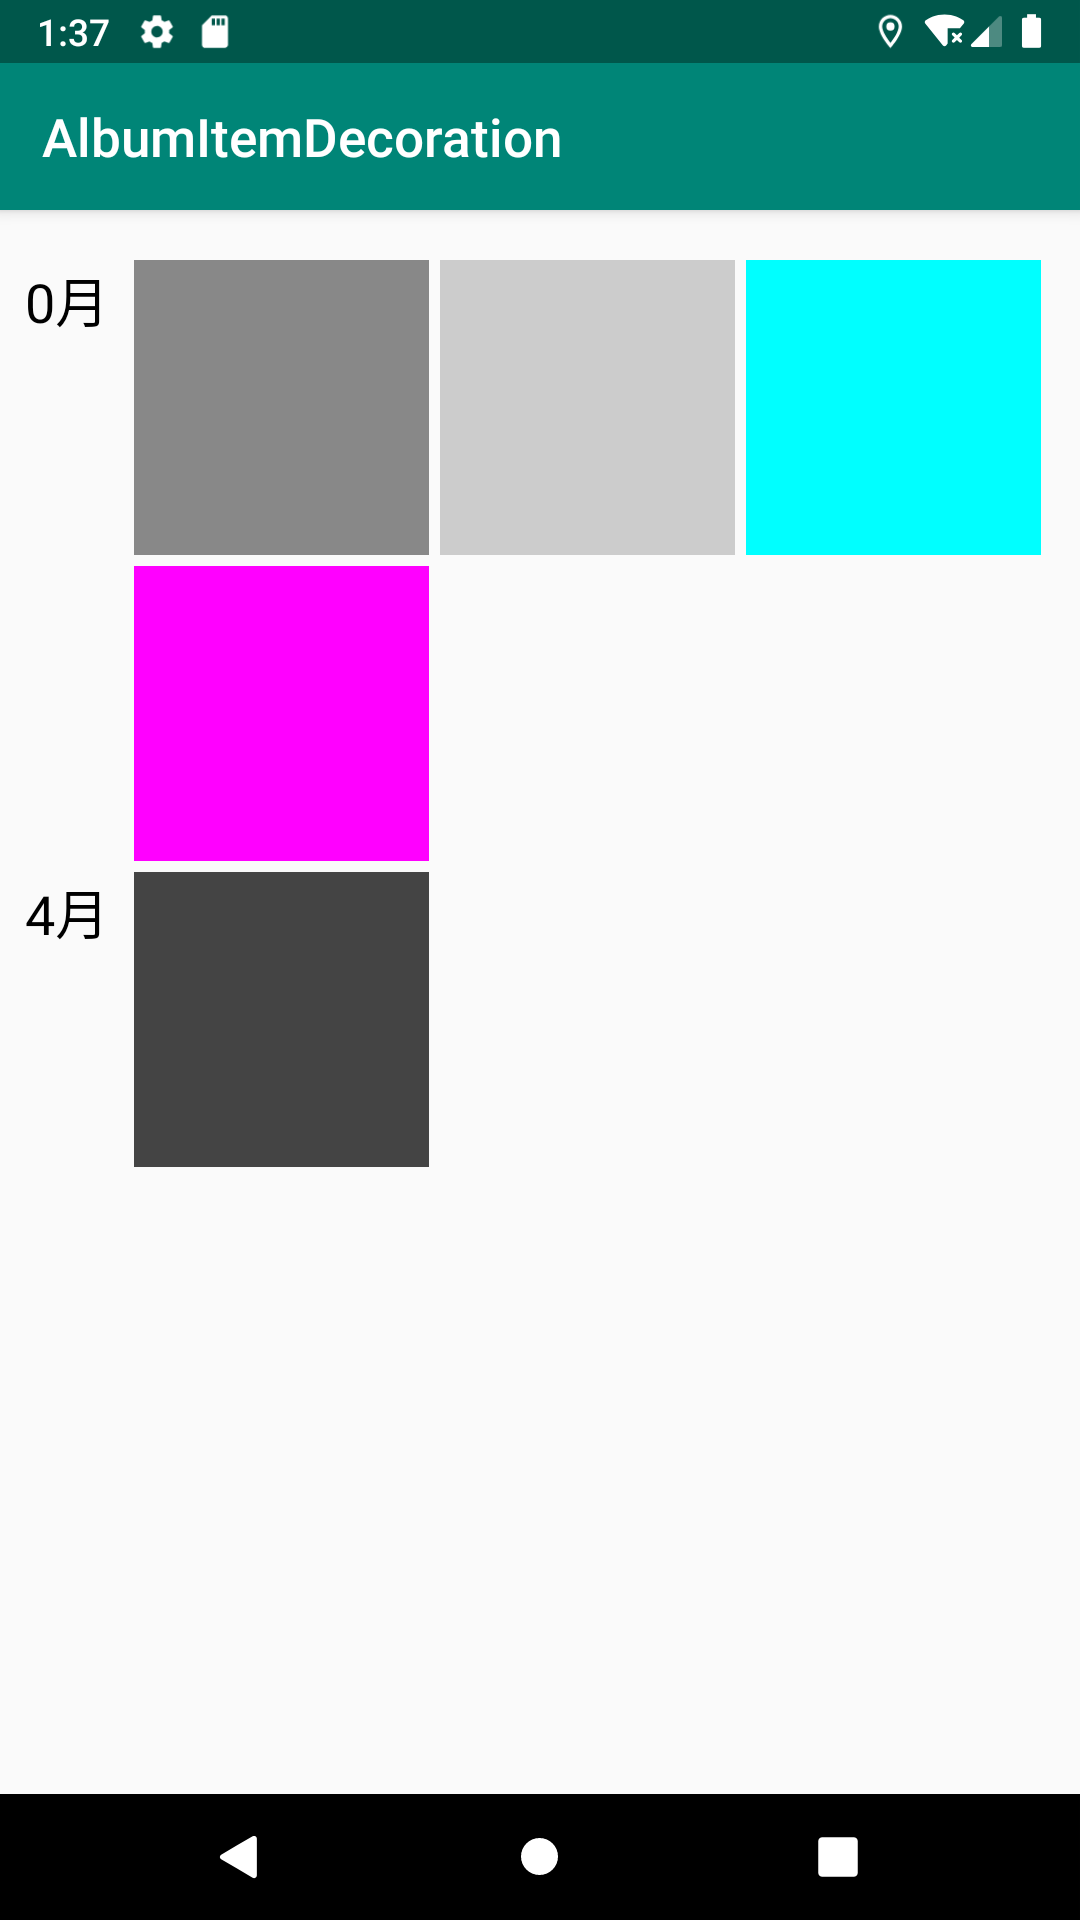
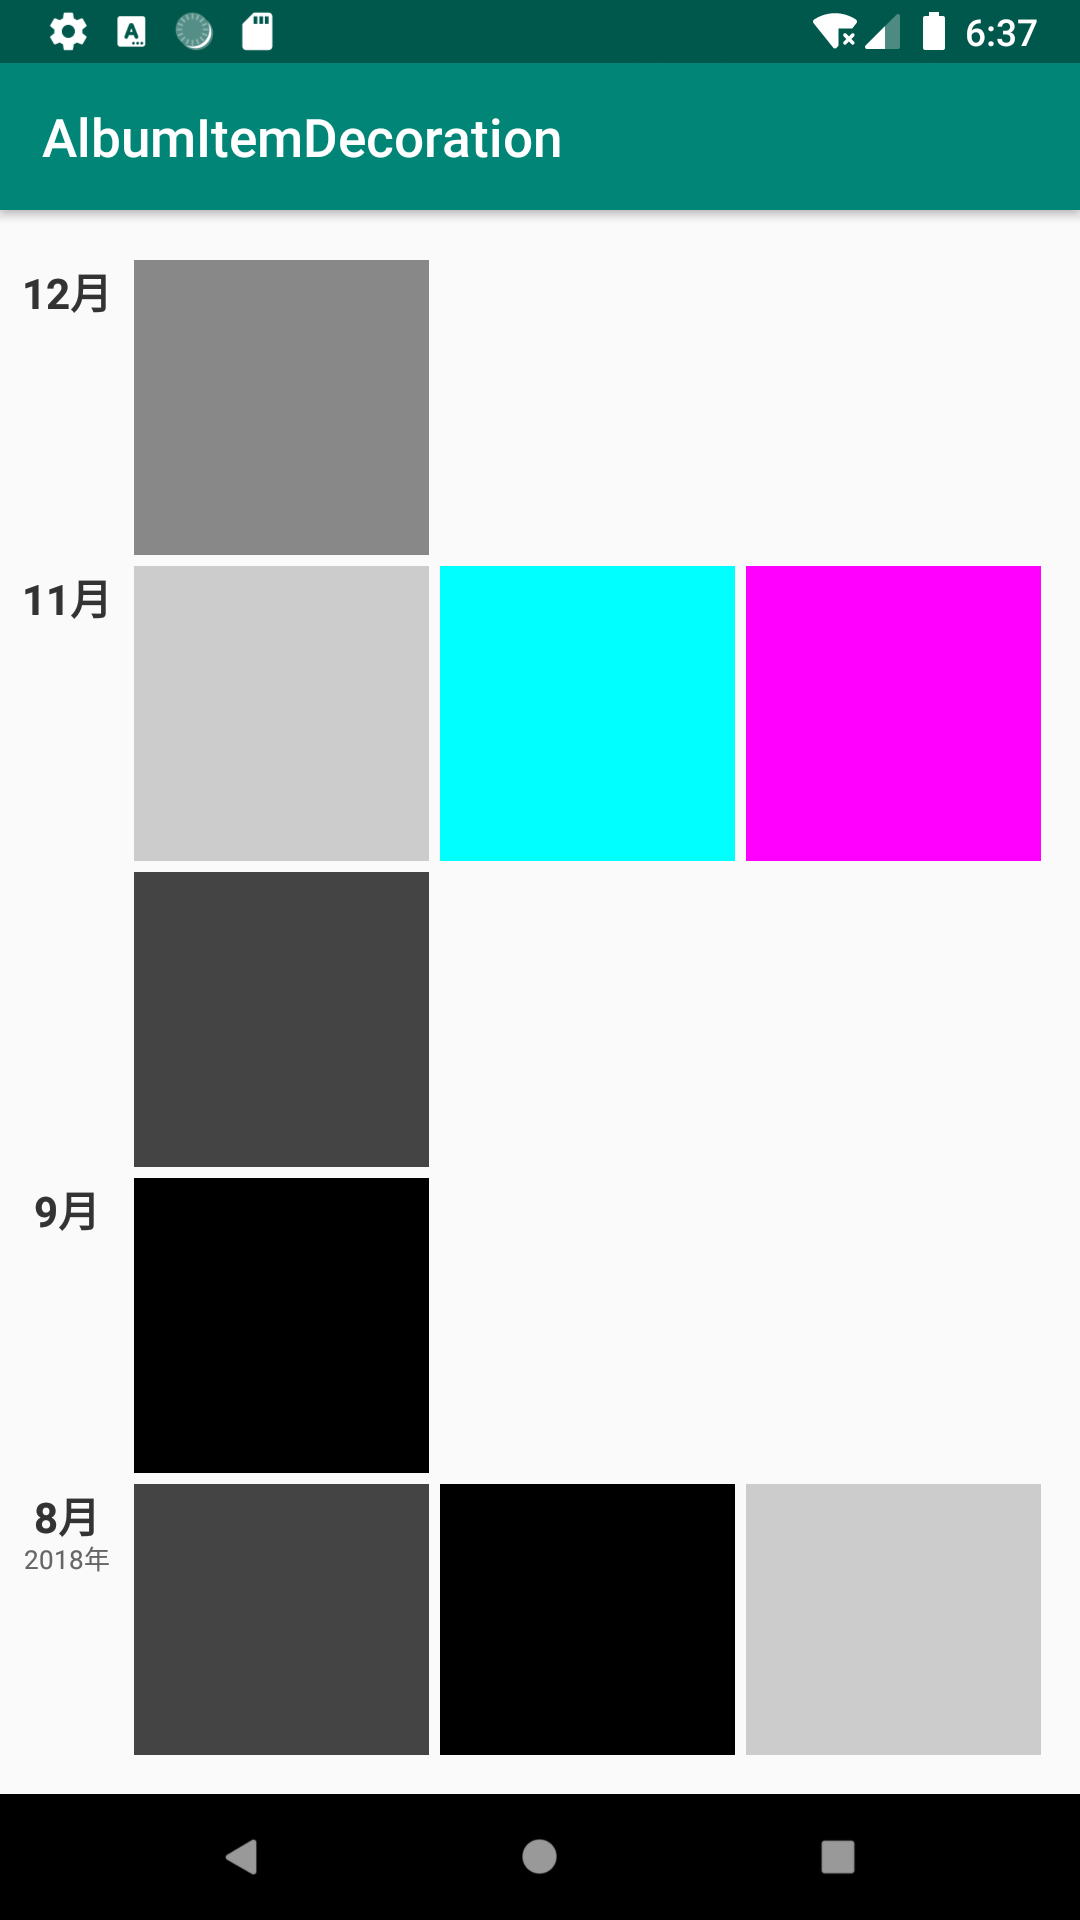
.

diff --git a/itemdecorationgroup/src/main/java/and/fast/itemdecorationgroup/AlbumItemDecoration.java b/itemdecorationgroup/src/main/java/and/fast/itemdecorationgroup/AlbumItemDecoration.java
@@ -5,19 +5,22 @@ import android.graphics.Canvas;
 import android.graphics.Color;
 import android.graphics.Paint;
 import android.graphics.Rect;
+import android.graphics.Typeface;
 import android.text.TextPaint;
-import android.util.Log;
 import android.view.View;
 import android.view.ViewGroup;
 
-import and.fast.itemdecorationgroup.model.Timeline;
+import java.util.Calendar;
+import java.util.Date;
+
+import and.fast.itemdecorationgroup.model.TimestampProvider;
 import androidx.annotation.NonNull;
 import androidx.recyclerview.widget.GridLayoutManager;
 import androidx.recyclerview.widget.RecyclerView;
 
 public class AlbumItemDecoration extends RecyclerView.ItemDecoration {
 
-    private TextPaint mTextPaint;
+    private TextPaint mMonthTextPaint, mYearTextPaint;
 
     private int mItemSize; // 条目大小
 
@@ -25,11 +28,12 @@ public class AlbumItemDecoration extends RecyclerView.ItemDecoration {
 
     private long mLastTimestamp;
 
-    private int timelineSpace, horizontalSpace;
+    private int timelineSpace, horizontalSpace, monthYearVerticalSpace;
 
     public AlbumItemDecoration(RecyclerView recyclerView) {
         Resources resources = recyclerView.getContext().getResources();
         horizontalSpace = resources.getDimensionPixelSize(R.dimen.horizontal_space);
+        monthYearVerticalSpace = resources.getDimensionPixelSize(R.dimen.month_year_vertical_space);
         timelineSpace = (recyclerView.getPaddingLeft() + resources.getDimensionPixelSize(R.dimen.timeline_space));
 
         // 设置边距
@@ -40,50 +44,21 @@ public class AlbumItemDecoration extends RecyclerView.ItemDecoration {
                 recyclerView.getPaddingBottom()
         );
 
-        init(recyclerView);
+        // 月份 文字画笔
+        mMonthTextPaint = new TextPaint(Paint.ANTI_ALIAS_FLAG);
+        mMonthTextPaint.setColor(Color.parseColor("#333333"));
+        mMonthTextPaint.setTypeface(Typeface.create(Typeface.SANS_SERIF, Typeface.BOLD));
+        mMonthTextPaint.setTextSize(resources.getDimensionPixelSize(R.dimen.month_text_size));
 
-        // 画毛
-        mTextPaint = new TextPaint(Paint.ANTI_ALIAS_FLAG);
-        mTextPaint.setColor(Color.BLACK);
-        mTextPaint.setTextSize(54);
-    }
-
-    // 设置填充
-    private void init(final RecyclerView recyclerView) {
-        RecyclerView.LayoutManager layoutManager = recyclerView.getLayoutManager();
-        GridLayoutManager gridLayoutManager = (GridLayoutManager) layoutManager;
-        mSpanCount = gridLayoutManager.getSpanCount();
-
-        gridLayoutManager.setSpanSizeLookup(new GridLayoutManager.SpanSizeLookup() {
-
-            @Override
-            public int getSpanSize(int position) {
-                RecyclerView.Adapter adapter = recyclerView.getAdapter();
-                Timeline timeline = (Timeline) adapter;
-                long timestamp = timeline.getTimestamp(position);
-
-                if (position < adapter.getItemCount() - 1) {
-                    long nextTimestamp = timeline.getTimestamp(position + 1);
-                    if (timestamp != nextTimestamp) {
-                        return mSpanCount;
-                    }
-                }
-
-                return 1;
-            }
-
-        });
-
-        // throw new ClassCastException("RecyclerView.LayoutManager必须是GridLayoutManager");
+        // 年份 文字画笔
+        mYearTextPaint = new TextPaint(Paint.ANTI_ALIAS_FLAG);
+        mYearTextPaint.setColor(Color.parseColor("#666666"));
+        mYearTextPaint.setTextSize(resources.getDimensionPixelSize(R.dimen.year_text_size));
     }
 
     @Override
-    public void getItemOffsets(
-            @NonNull Rect outRect, @NonNull View view, @NonNull RecyclerView parent, @NonNull RecyclerView.State state) {
-
+    public void getItemOffsets(@NonNull Rect outRect, @NonNull View view, @NonNull RecyclerView parent, @NonNull RecyclerView.State state) {
         resetItemViewSize(parent, view);
-
-        //int position = parent.getChildLayoutPosition(view);
 
         outRect.top = horizontalSpace;
     }
@@ -92,18 +67,18 @@ public class AlbumItemDecoration extends RecyclerView.ItemDecoration {
     public void onDrawOver(@NonNull Canvas c, @NonNull RecyclerView parent, @NonNull RecyclerView.State state) {
         RecyclerView.Adapter adapter = parent.getAdapter();
 
-        if (adapter instanceof Timeline) {
-            Timeline timeline = (Timeline) adapter;
+        if (adapter instanceof TimestampProvider) {
+            TimestampProvider provider = (TimestampProvider) adapter;
             int childCount = parent.getChildCount();
 
             for (int index = 0; index < childCount; index++) {
                 View view = parent.getChildAt(index);
                 int position = parent.getChildLayoutPosition(view);
-                long timestamp = timeline.getTimestamp(position);
+                long timestamp = provider.getTimestamp(position);
 
                 if (mLastTimestamp != timestamp) {
                     mLastTimestamp = timestamp;
-                    drawTimeline(c, view, position);
+                    drawDate(c, view, timestamp);
                 }
             }
 
@@ -112,26 +87,49 @@ public class AlbumItemDecoration extends RecyclerView.ItemDecoration {
         }
     }
 
-    // 绘制时间线
-    private void drawTimeline(Canvas canvas, View view, int position) {
-        // 文字宽高
-        float textWidth = mTextPaint.measureText(position + "月");
-        Paint.FontMetrics fontMetrics = mTextPaint.getFontMetrics();
-        float textHeight = fontMetrics.descent - fontMetrics.ascent;
+    // 绘制时间
+    private void drawDate(Canvas canvas, View view, long timestamp) {
+        // 时间
+        Calendar calendar = Calendar.getInstance();
+        calendar.setTimeInMillis(timestamp);
+        int month = calendar.get(Calendar.MONTH) + 1;
 
-        // 绘制文字
+        // 文字宽高
+        float monthTextWidth = mMonthTextPaint.measureText(month + "月");
+        Paint.FontMetrics monthFontMetrics = mMonthTextPaint.getFontMetrics();
+        float monthTextHeight = monthFontMetrics.descent - monthFontMetrics.ascent;
+
+        // 绘制月份文字
         canvas.drawText(
-                position + "月",
-                view.getX() - timelineSpace / 2 - textWidth / 2,
-                view.getY() + textHeight,
-                mTextPaint
+                month + "月",
+                view.getX() - timelineSpace / 2 - monthTextWidth / 2,
+                view.getY() + monthTextHeight,
+                mMonthTextPaint
         );
+
+        // 绘制年份文字
+        Calendar nowCalendar = Calendar.getInstance();
+        nowCalendar.setTime(new Date());
+        if (nowCalendar.get(Calendar.YEAR) != calendar.get(Calendar.YEAR)){
+            float yearTextWidth = mYearTextPaint.measureText(calendar.get(Calendar.YEAR) + "年");
+            Paint.FontMetrics yearFontMetrics = mYearTextPaint.getFontMetrics();
+            float yearTextHeight = yearFontMetrics.descent - yearFontMetrics.ascent;
+
+            canvas.drawText(
+                    calendar.get(Calendar.YEAR) + "年",
+                    view.getX() - timelineSpace / 2 - yearTextWidth / 2,
+                    view.getY() + yearTextHeight + monthTextHeight + monthYearVerticalSpace,
+                    mYearTextPaint
+            );
+        }
     }
 
     // 重置条目大小
     private void resetItemViewSize(RecyclerView parent, View view) {
         if (mItemSize == 0) {
             int parentWidth = parent.getWidth() - (parent.getPaddingLeft() + parent.getPaddingRight());
+            GridLayoutManager gridLayoutManager = (GridLayoutManager) parent.getLayoutManager();
+            mSpanCount = gridLayoutManager.getSpanCount();
             mItemSize = parentWidth / mSpanCount;
         }
 

diff --git a/itemdecorationgroup/src/main/java/and/fast/itemdecorationgroup/AlbumSpanSizeLookup.java b/itemdecorationgroup/src/main/java/and/fast/itemdecorationgroup/AlbumSpanSizeLookup.java
@@ -1,0 +1,51 @@
+package and.fast.itemdecorationgroup;
+
+import and.fast.itemdecorationgroup.model.TimestampProvider;
+import androidx.recyclerview.widget.GridLayoutManager;
+import androidx.recyclerview.widget.RecyclerView;
+
+public class AlbumSpanSizeLookup extends GridLayoutManager.SpanSizeLookup {
+
+    private int index;
+    private int mPrePosition;
+    private int mSpanCount; // 数量
+
+    private RecyclerView mRecyclerView;
+
+    public AlbumSpanSizeLookup(RecyclerView recyclerView) {
+        RecyclerView.LayoutManager layoutManager = recyclerView.getLayoutManager();
+        GridLayoutManager gridLayoutManager = (GridLayoutManager) layoutManager;
+
+        mRecyclerView = recyclerView;
+        mSpanCount = gridLayoutManager.getSpanCount();
+    }
+
+    @Override
+    public int getSpanSize(int position) {
+        RecyclerView.Adapter adapter = mRecyclerView.getAdapter();
+        TimestampProvider provider = (TimestampProvider) adapter;
+        long timestamp = provider.getTimestamp(position);
+
+        if (position < adapter.getItemCount() - 1) { // 判断是否为最后一个条目
+            // 获取下一个条目时间
+            long nextTimestamp = provider.getTimestamp(position + 1);
+            if (timestamp != nextTimestamp) {
+                int index = position - mPrePosition;
+                mPrePosition = position;
+
+                //int placeholderNumber = mSpanCount - (index % mSpanCount); // 换占位数
+//                Log.i(getClass().getSimpleName(),
+//                        "position: " + position
+//                                + ", index: " + index
+//                                + ", number: " + placeholderNumber
+//                                + ", result: " + (index == 0 ? mSpanCount : (placeholderNumber + 1)));
+                //Log.i(getClass().getSimpleName(), String.valueOf(index));
+               return index == 0 ? mSpanCount : (3 + 1);
+            }
+        }
+
+        index = index + 1; // 计数
+        return 1;
+    }
+
+}

diff --git a/app/src/main/java/and/fast/simple/AlbumAdapter.java b/app/src/main/java/and/fast/simple/AlbumAdapter.java
@@ -10,21 +10,30 @@ import android.widget.Toast;
 import java.util.Arrays;
 import java.util.List;
 
-import and.fast.itemdecorationgroup.model.Timeline;
+import and.fast.itemdecorationgroup.model.TimestampProvider;
 import and.fast.simple.entities.ImageEntity;
 import androidx.annotation.NonNull;
 import androidx.recyclerview.widget.RecyclerView;
 
-public class AlbumAdapter extends RecyclerView.Adapter<AlbumAdapter.ViewHolder> implements Timeline {
+public class AlbumAdapter extends RecyclerView.Adapter<AlbumAdapter.ViewHolder> implements TimestampProvider {
 
     private List<ImageEntity> mImageList = Arrays.asList(
-            new ImageEntity(1577238277L,Color.GRAY),
-            new ImageEntity(1577411078L,Color.LTGRAY),
-            new ImageEntity(1577411078L,Color.CYAN),
-            new ImageEntity(1577411078L,Color.MAGENTA),
-            new ImageEntity(1577411078L,Color.DKGRAY),
-            new ImageEntity(1577600223L,Color.BLACK),
-            new ImageEntity(1577600223L,Color.YELLOW)
+            new ImageEntity(1577772269000L,Color.GRAY),   // 2019-12-31
+            new ImageEntity(1575093869000L,Color.LTGRAY), // 2019-11-31
+            new ImageEntity(1575093869000L,Color.CYAN),
+            new ImageEntity(1575093869000L,Color.MAGENTA),
+            new ImageEntity(1575093869000L,Color.DKGRAY),
+            new ImageEntity(1569823469000L,Color.BLACK), // 2019-09-31
+            new ImageEntity(1535609069000L,Color.DKGRAY), // 2018-8-30
+            new ImageEntity(1535609069000L,Color.BLACK),
+            new ImageEntity(1535609069000L,Color.LTGRAY),
+            new ImageEntity(1535609069000L,Color.YELLOW),
+            new ImageEntity(1535609069000L,Color.BLACK),
+            new ImageEntity(1535609069000L,Color.CYAN),
+            new ImageEntity(1535609069000L,Color.DKGRAY),
+            new ImageEntity(1535609069000L,Color.MAGENTA),
+            new ImageEntity(1514613869000L,Color.BLACK),  // 2017-12-30
+            new ImageEntity(1514613869000L,Color.DKGRAY)
     );
 
     @NonNull

diff --git a/app/src/main/java/and/fast/simple/MainActivity.java b/app/src/main/java/and/fast/simple/MainActivity.java
@@ -3,7 +3,9 @@ package and.fast.simple;
 import android.os.Bundle;
 
 import and.fast.itemdecorationgroup.AlbumItemDecoration;
+import and.fast.itemdecorationgroup.AlbumSpanSizeLookup;
 import androidx.appcompat.app.AppCompatActivity;
+import androidx.recyclerview.widget.GridLayoutManager;
 import androidx.recyclerview.widget.RecyclerView;
 
 public class MainActivity extends AppCompatActivity {
@@ -14,6 +16,8 @@ public class MainActivity extends AppCompatActivity {
         setContentView(R.layout.activity_main);
 
         RecyclerView recyclerView = findViewById(R.id.recycler_view);
+        GridLayoutManager lm = (GridLayoutManager) recyclerView.getLayoutManager();
+        lm.setSpanSizeLookup(new AlbumSpanSizeLookup(recyclerView));
         recyclerView.addItemDecoration(new AlbumItemDecoration(recyclerView));
         recyclerView.setAdapter(new AlbumAdapter());
     }

diff --git a/itemdecorationgroup/src/main/java/and/fast/itemdecorationgroup/model/TimestampProvider.java b/itemdecorationgroup/src/main/java/and/fast/itemdecorationgroup/model/TimestampProvider.java
@@ -1,9 +1,6 @@
 package and.fast.itemdecorationgroup.model;
 
-/**
- * Desc: 时间线
- */
-public interface Timeline {
+public interface TimestampProvider {
 
     long getTimestamp(int position);
 
